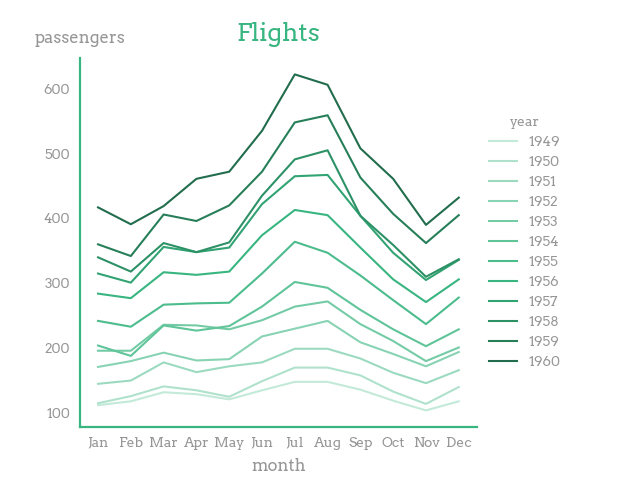
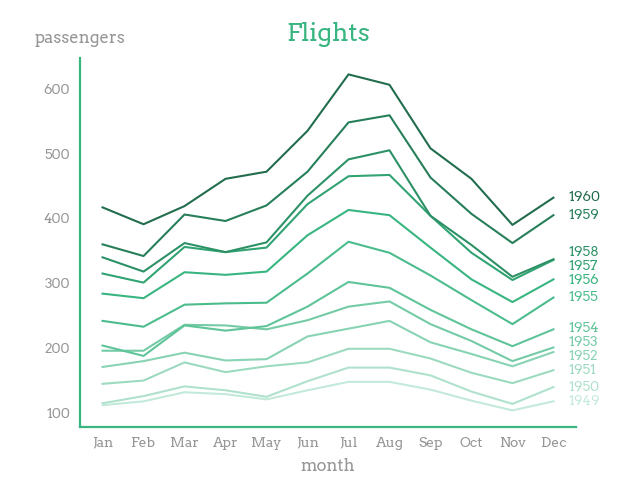
fixed horizontal distance of linelegend to be based on xrange and not on xax

diff --git a/tests/test_plots.py b/tests/test_plots.py
@@ -1,0 +1,111 @@
+import random
+import itertools
+import rootsstyle
+import pandas as pd
+import seaborn as sns
+from rootsstyle import colors
+import matplotlib.pyplot as plt
+import matplotlib.patches as patches
+
+OUTPUT_DIR = "images"
+
+def test_palette():
+    color_values = list(colors.values())
+    nb_colors = len(color_values)
+    plt.figure(figsize=(8, 8))
+    ax = plt.gca()
+
+    #Plot ordered palette
+    ax.set_ylim(0, 6)
+    ax.set_xlim(0, nb_colors)
+    for i in range(nb_colors):
+        ax.add_patch(patches.Rectangle((i,5.05), width=1, height=0.92, linewidth=0, facecolor=color_values[i]))
+
+    #Plot random spots next to each other
+    for x, y in itertools.product(list(range(nb_colors)), list(range(5))):
+        color = color_values[random.randint(0, nb_colors-1)]
+        height = 0.92 if y==4 else 1
+        ax.add_patch(patches.Rectangle((x,y), width=1, height=height, linewidth=0, facecolor=color))
+    
+    plt.axis('off')
+    plt.savefig(f"{OUTPUT_DIR}/palette.png", transparent=True)
+    plt.close()
+
+def test_scatterplot():
+    df_penguins = sns.load_dataset("penguins")
+    with plt.style.context(rootsstyle.style):
+        sns.scatterplot(x='body_mass_g', y='flipper_length_mm', marker='+', data=df_penguins, hue='species')
+        rootsstyle.legend()
+        rootsstyle.ylabel('flipper length\n[mm]')
+        plt.xlabel('body mass [g]')
+        plt.title("Penguins")
+        plt.savefig(f"{OUTPUT_DIR}/scatterplot.png")
+        plt.close()
+
+def test_lineplot():
+    df_flights = sns.load_dataset("flights")
+    with plt.style.context(rootsstyle.style):
+        sns.lineplot(x='month', y='passengers', data=df_flights, hue='year', palette=rootsstyle.palettes['dataroots-green'][:12])
+        rootsstyle.legend()
+        rootsstyle.ylabel('passengers')
+        plt.xlabel('month')
+        plt.title("Flights")
+        plt.savefig(f"{OUTPUT_DIR}/lineplot_green.png")
+        plt.close()
+
+
+        sns.lineplot(x='month', y='passengers', data=df_flights, hue='year', palette=rootsstyle.palettes['dataroots-blue'][:12])
+        rootsstyle.legend()
+        rootsstyle.ylabel('passengers')
+        plt.xlabel('month')
+        plt.title("Flights")
+        plt.savefig(f"{OUTPUT_DIR}/lineplot_blue.png")
+        plt.close()
+    
+    df_cars = sns.load_dataset("mpg")
+    df_usa = df_cars[df_cars['origin']=='usa'].groupby('model_year').mean().reset_index()
+    df_japan = df_cars[df_cars['origin']=='japan'].groupby('model_year').mean().reset_index()
+    df_europe = df_cars[df_cars['origin']=='europe'].groupby('model_year').mean().reset_index()
+    with plt.style.context(rootsstyle.style):
+        sns.lineplot(x='model_year', y='mpg', data=df_usa, label='USA')
+        sns.lineplot(x='model_year', y='mpg', data=df_japan, label='Japan')
+        sns.lineplot(x='model_year', y='mpg', data=df_europe, label='Europe')
+        rootsstyle.legend()
+        rootsstyle.ylabel('mpg')
+        plt.xlabel('model year')
+        plt.title("Cars")
+        plt.savefig(f"{OUTPUT_DIR}/lineplot_cars.png")
+        plt.close()
+
+
+def test_barplot():
+    df_penguins = sns.load_dataset("penguins")
+    df_penguins = df_penguins.groupby(["island", "species"]).size().to_frame('count').reset_index()
+    with plt.style.context(rootsstyle.style):
+        sns.barplot(x='island', y='count',data=df_penguins, hue='species')
+        rootsstyle.ylabel('Penguins')
+        plt.xlabel('Island')
+        rootsstyle.legend()
+        plt.savefig(f"{OUTPUT_DIR}/barplot.png")
+        plt.close()
+
+def test_violinplot():
+    df_tips = sns.load_dataset("tips")
+    with plt.style.context(rootsstyle.style):
+        sns.violinplot(x="day", y="total_bill", hue="smoker", data=df_tips)
+        plt.title("Tip income")
+        plt.xlabel("Day")
+        rootsstyle.ylabel("USD")
+        rootsstyle.legend()
+        plt.savefig(f"{OUTPUT_DIR}/violinplot.png")
+        plt.close()
+
+def test_pieplot():
+    df_penguins = sns.load_dataset("penguins")
+    df_penguins = df_penguins.groupby("species").size().to_frame('count').reset_index()
+    with plt.style.context(rootsstyle.style):
+        plt.pie(df_penguins['count'], labels=df_penguins['species'], autopct='%.0f%%')
+        plt.title("Pinguin distribution")
+        rootsstyle.legend()
+        plt.savefig(f"{OUTPUT_DIR}/pieplot.png")
+        plt.close()

diff --git a/rootsstyle/utils.py b/rootsstyle/utils.py
@@ -1,36 +1,99 @@
 import numpy as np
+import scipy.optimize
 import matplotlib as mpl
+import matplotlib.pyplot as plt
 
 # pyplot.legend() -> gca().legend()
 # axes.legend() -> legend._parse_legend_args()
 # legend._parse_legend_args() -> labels!=None and handles==None:
-def get_line_handles(ax):
+def get_dataline_handles(ax):
+    """Returns the handles that correspond to datalines
+
+    Args:
+        ax (Axes): the axis of the graph to look in
+        handles (list[mpl.artist.Artist], optional): A list of Artists (lines, patches) to be added to the legend. Defaults to None.
+        
+    Returns:
+        list[handle]: list of handles that correspond to datalines
+    """
     return [
-        h for h in mpl.legend._get_legend_handles([ax]) if type(h) == mpl.lines.Line2D
+        h for h in mpl.legend._get_legend_handles([ax]) if type(h) == mpl.lines.Line2D and not np.all(np.isnan(h.get_ydata()))
     ]
 
 
-def is_line_plot(ax, labels) -> bool:
+def is_line_plot(ax, labels=None) -> bool:
     """Determines whether the plot is a pure line plot or if it contains other types of data visualizations.
 
     Args:
         ax (mpl.axes.Axes): Axes object of the graph
+        labels (list[str], optional): list of labels to use. Defaults to None.
 
     Returns:
         bool: True if the plot is a pure lineplot, False otherwise
     """
-    handles = get_line_handles(ax)
+    handles = get_dataline_handles(ax)
     if len(handles) == 0:
         return False  # No lines in plot
     if labels != None and len(handles) != len(labels):
-        # Some plots (e.g. violin plots also use Line2D object for some data)
+        # Some plots (e.g. violin plots) also use Line2D object for some data (e.g. errorlines))
         return False
+    # Filter scatterplots
     linestyles = [h._linestyle for h in handles]
-    return "None" not in linestyles  # linestyle 'None' is used for scatterplots
+    return "None" not in linestyles  
 
 
 def get_handle_color(handle):
+    """Returns the color of the handle
+
+    Args:
+        handle ([type]): The handle that contains the color property
+
+    Returns:
+        str: color of the handle
+    """
     if type(handle) == mpl.lines.Line2D:
         return handle.get_color()
     if type(handle) == mpl.patches.Rectangle:
         return handle.get_facecolor()
+
+
+def get_linelegend_ypositions(ax, handles):
+    """Calculates the positions of the legendentries.
+    Ensures that there is no vertical overlap between entires.
+
+    src: https://github.com/nschloe/dufte/blob/fa94fcc7277993942a1cbb909301105cd154644a/src/dufte/main.py#L96
+
+    Args:
+        ax (mpl.axes.Axes): Axes object of the graph
+        handles (list[mpl.lines.Line2D]): list of handles representing the datalines we are making a legend for.
+
+    Returns:
+        list[(float, float)]: a list of (x,y) coordinates for the legend entries 
+    """
+    fontsize_inches = mpl.rcParams["font.size"] / 72
+    fig_height_inches = plt.gcf().get_size_inches()[1]
+    yaxis_height_inches = (ax.get_position().y1 - ax.get_position().y0) * fig_height_inches
+    yaxis_range = ax.get_ylim()[1] - ax.get_ylim()[0]
+    min_distance = fontsize_inches / yaxis_height_inches * yaxis_range
+
+    # Find position heights and adjust so that there is no overlap
+    last_y = [h.get_ydata()[~np.isnan(h.get_ydata())][-1] for h in handles]
+    idx = np.argsort(last_y)
+    targets = np.sort(last_y)
+    n = len(targets)
+
+    y0_min = targets[0] - n * min_distance
+    A = np.tril(np.ones([n, n]))
+    b = targets - (y0_min + np.arange(n) * min_distance)
+
+    out, _ = scipy.optimize.nnls(A, b)
+    sol = np.cumsum(out) + y0_min + np.arange(n) * min_distance
+    idx2 = np.argsort(idx)
+    last_y = sol[idx2]
+
+    # Add x-coordinates to get position next to last datapoint
+    last_x = [h.get_xdata()[~np.isnan(h.get_xdata())][-1] for h in handles]
+    xaxis_range = ax.get_xlim()[1] - ax.get_xlim()[0]
+    targets = [(x + xaxis_range*0.03, y) for x, y in zip(last_x, last_y)]
+
+    return targets

diff --git a/rootsstyle/main.py b/rootsstyle/main.py
@@ -4,7 +4,7 @@
 """
 from .fonts import fonts
 from .colors import colors
-from .utils import is_line_plot
+from .utils import is_line_plot, get_dataline_handles, get_linelegend_ypositions
 import numpy as np
 import matplotlib as mpl
 import matplotlib.pyplot as plt
@@ -20,6 +20,7 @@ style = {
     ## * FONT                                                                    *
     ## ***************************************************************************
     "font.family": "Arvo",
+    "font.size": 10, #used for line legend
     ## ***************************************************************************
     ## * TICKS                                                                   *
     ## ***************************************************************************
@@ -27,6 +28,8 @@ style = {
     "ytick.major.width": 0,
     "xtick.color": colors["gray"],
     "ytick.color": colors["gray"],
+    "xtick.labelsize": 10,
+    "ytick.labelsize": 10,
     ## ***************************************************************************
     ## * AXES                                                                    *
     ## ***************************************************************************
@@ -62,6 +65,7 @@ style = {
     ## * LEGEND                                                                  *
     ## ***************************************************************************
     "legend.frameon": False,
+    "legend.fontsize": 10,
     ## ***************************************************************************
     ## * SAVING FIGURES                                                          *
     ## ***************************************************************************
@@ -72,26 +76,24 @@ style = {
 # Inspiration: https://github.com/nschloe/dufte
 # Inspiration: https://github.com/matplotlib/matplotlib/blob/main/lib/matplotlib/legend.py
 def _legend_line(ax, labels=None):
-    """Displays the legend next to the line
+    """Displays the legendentries next to the line in the same color as the line
 
     Args:
-        ax ([type]): [description]
-        labels ([type], optional): [description]. Defaults to None.
+        ax (mpl.axes.Axes): Axes object of the graph
+        labels (list[str], optional): list of labels to use. Defaults to None.
+    Returns:
+        dict: a dictionary containing entries for 'labels' and 'handles' used by the legend.
     """
     # Removing existing legend (e.g. default of seaborn)
     if ax.legend_ is not None:
         ax.legend_ = None
 
-    handles = [
-        h for h in mpl.legend._get_legend_handles([ax]) if type(h) == mpl.lines.Line2D
-    ]
+    handles = get_dataline_handles(ax)
     colors = [h.get_color() for h in handles]
     if labels is None:
         labels = [h.get_label() for h in handles]
 
-    last_y = [h.get_ydata()[~np.isnan(h.get_ydata())][-1] for h in handles]
-    last_x = [h.get_xdata()[~np.isnan(h.get_xdata())][-1] for h in handles]
-    targets = [(x * 1.03, y) for x, y in zip(last_x, last_y)]
+    targets = get_linelegend_ypositions(ax, handles)
 
     for label, (x, y), color in zip(labels, targets, colors):
         plt.text(x, y, label, verticalalignment="center", color=color)

diff --git a/tests/test_rootsstyle.py b/tests/test_rootsstyle.py
@@ -32,7 +32,7 @@ def test_legend():
         assert plt.gcf().number == 1
         plt.close()
 
-        sns.lineplot(x='month', y='passengers', data=df_flights, hue='year', palette=rootsstyle.palettes['dataroots-blue'][:12])
+        sns.lineplot(x='month', y='passengers', data=df_flights, hue='year', palette=rootsstyle.palettes['dataroots-green'][:12])
         legend = rootsstyle.legend()
         assert len(legend.items()) == 2
         assert set(legend.keys()) == set(['labels', 'handles'])
